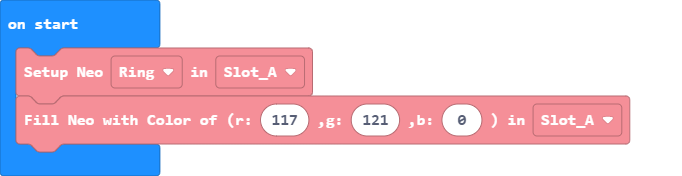
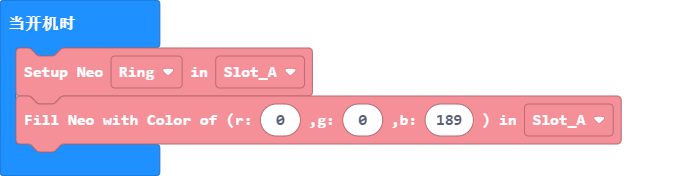
更新 pxt.json, main.blocks, main.ts, DinoStick.ts, _locales/zh/DinoStick-strings.json

diff --git a/DinoStick.ts b/DinoStick.ts
@@ -145,8 +145,8 @@ namespace DinoStick {
     export function getTouchState(slot: Slot): boolean {
         return execCmdReturnBool(slot, "get_touch");
     }
-
     //% blockId="set_time" block="Set Time in %slot as "
+    //% inlineInputMode=inline
     export function setTime(slot: Slot, year: number, month: number, day: number, h: number, m: number, s: number): void {
         execCmd(slot, "setT" + String.fromCharCode(year) + String.fromCharCode(month) + String.fromCharCode(day) + String.fromCharCode(h) + String.fromCharCode(m) + String.fromCharCode(s));
     }
@@ -209,9 +209,15 @@ namespace DinoStick {
     //% inlineInputMode=inline
     export function setNeoRainbow(t: Animation_Type, x: number, n: number, slot: Slot ): void {
         switch (t){
-            case 0x1 : execCmd(slot, "rnbl" + String.fromCharCode(0) + "N" + String.fromCharCode(x) + String.fromCharCode(n));
-            case 0x2 : execCmd(slot, "rnbl" + String.fromCharCode(0) + "H" + String.fromCharCode(x) + String.fromCharCode(n));
-            case 0x3 : execCmd(slot, "rnbl" + String.fromCharCode(0) + "O" + String.fromCharCode(x) + String.fromCharCode(n));
+            case 0x1 : 
+                execCmd(slot, "rnbl" + String.fromCharCode(0) + "N" + String.fromCharCode(x) + String.fromCharCode(n));
+                break;
+            case 0x2 : 
+                execCmd(slot, "rnbl" + String.fromCharCode(0) + "H" + String.fromCharCode(x) + String.fromCharCode(n));
+                break;
+            case 0x3 : 
+                execCmd(slot, "rnbl" + String.fromCharCode(0) + "O" + String.fromCharCode(x) + String.fromCharCode(n));
+                break;
         }
         basic.pause(10);
     }
@@ -239,9 +245,15 @@ namespace DinoStick {
     //% blockId="setup_neo" block="Setup Neo %Neo_grps in %slot "
     export function setupNeo(neo_grps: Neo_grps, slot: Slot): void {
         switch(neo_grps){
-            case 0x1 : execCmd(slot, "init1" + "R");
-            case 0x2 : execCmd(slot, "init1" + "A");
-            case 0x3 : execCmd(slot, "init1" + "B");
+            case 0x1 : 
+                execCmd(slot, "init1" + "R");
+                break;
+            case 0x2 : 
+                execCmd(slot, "init1" + "A");
+                break;
+            case 0x3 : 
+                execCmd(slot, "init1" + "B");
+                break;
         }
         basic.pause(10);
     }

diff --git a/main.ts b/main.ts
@@ -1,2 +1,2 @@
 DinoStick.setupNeo(Neo_grps.Ring, Slot.SlotA)
-DinoStick.fillNeoColor(117, 121, 0, Slot.SlotA)
+DinoStick.fillNeoColor(0, 0, 189, Slot.SlotA)
